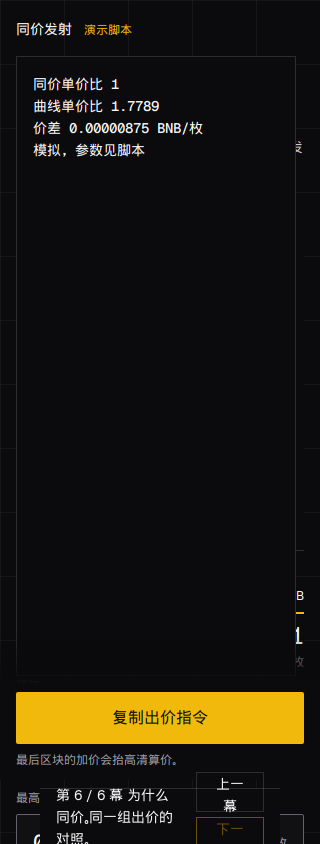
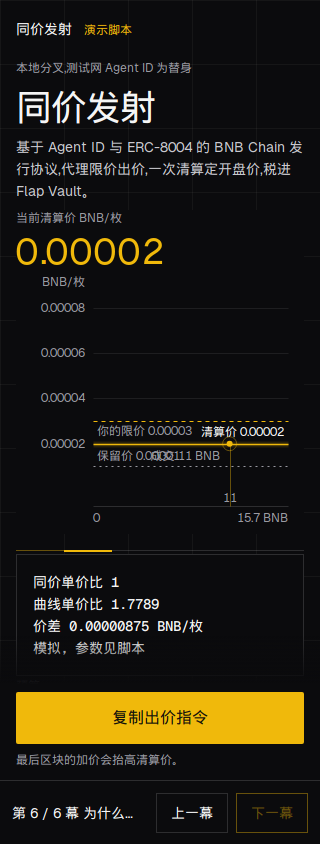
核对证据哈希，并锁住金额解析。

diff --git a/docs/work-log.md b/docs/work-log.md
@@ -39,3 +39,5 @@ Wed Nov 25 07:57:16 PM UTC 2026
 失败文案不再写成未达保留价。入池不够和保留价不够都是没有成交、出价全额退回。代理的低于保留价说法和页面一致。
 Wed Nov 25 07:58:45 PM UTC 2026
 窄屏演示条改成一行。320 和 390 上两个按钮都在屏幕内，下沿 833，不压住主按钮。小写地址也能模拟。金额写错时直接说要用十进制。
+Wed Nov 25 08:00:01 PM UTC 2026
+证据文档里的 16 个哈希和记录对得上，提走数额一致。金额解析有单测。刷新了已发射和对照幕的截图。
